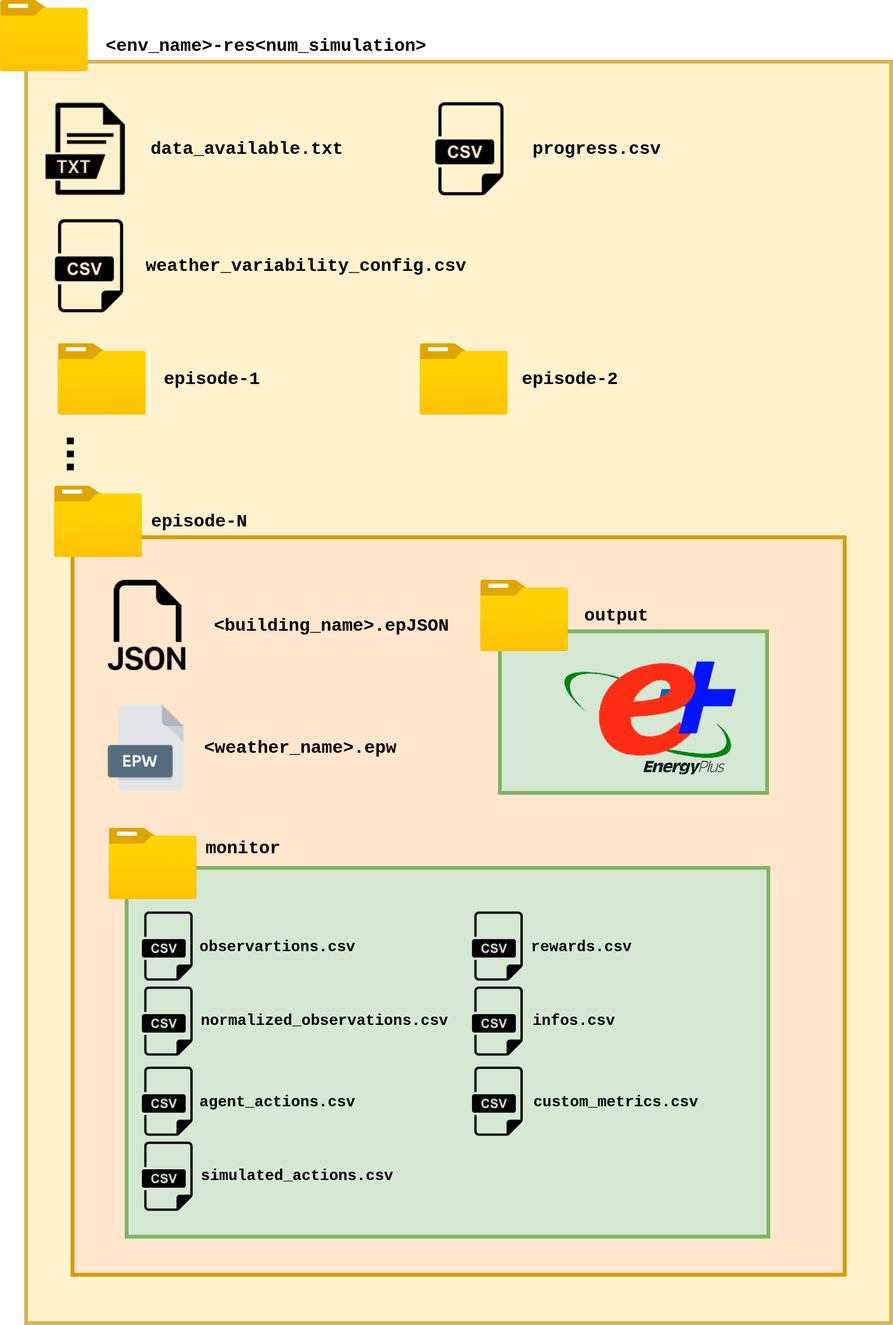
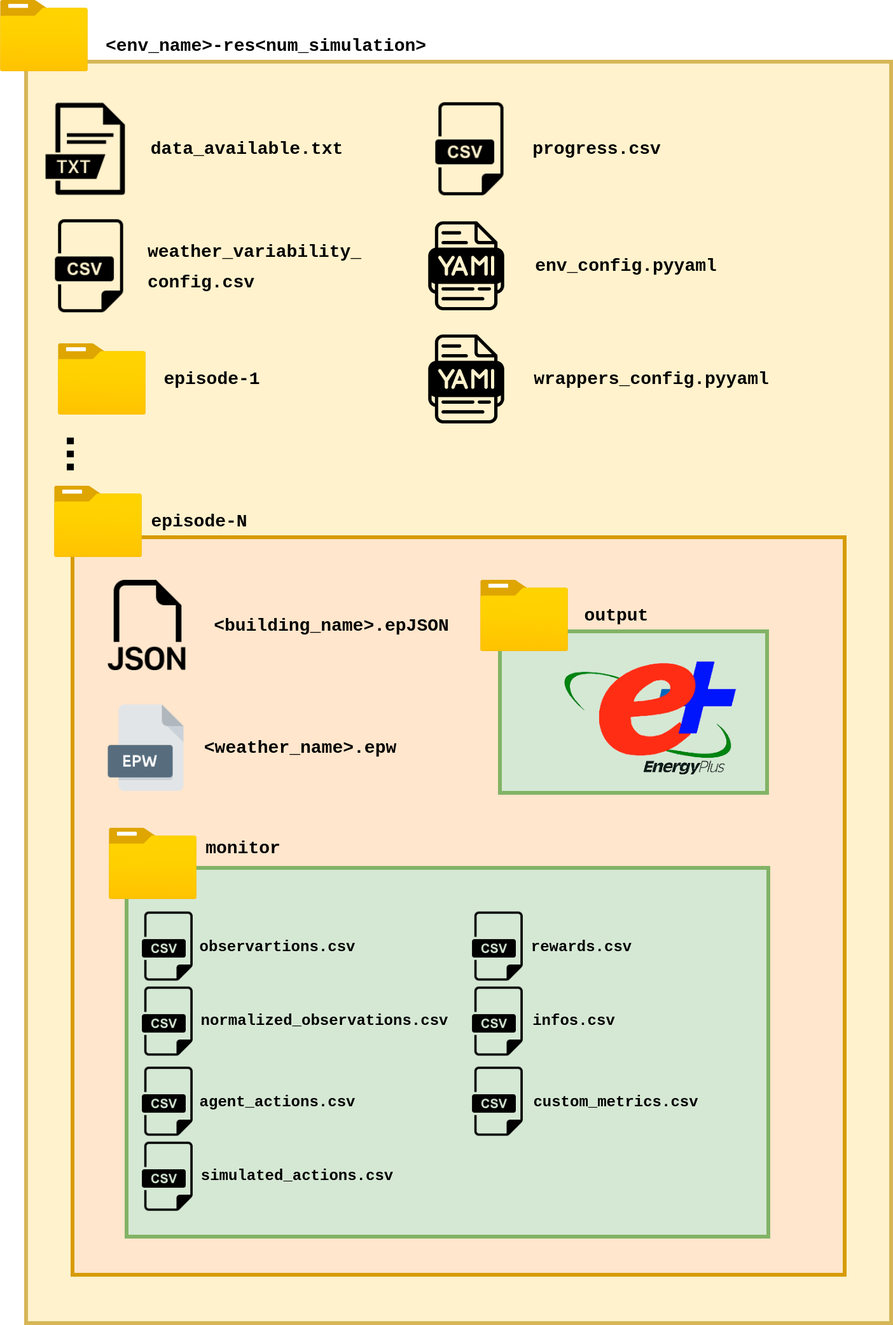
Documentation: Update documentation with information about serialization and its usage

Changed region(s): [[0.1531, 0.156, 0.6738, 0.3431], [0.6125, 0.1871, 0.7963, 0.2183], [0.7044, 0.2807, 0.8575, 0.3119]]

diff --git a/docs/source/pages/environments_registration.rst b/docs/source/pages/environments_registration.rst
@@ -8,46 +8,46 @@ Since multiple environments can be generated from the same building, *Sinergym* 
 
 This section outlines the structure of these YAML configuration files. Moreover, this structure allows for the definition of observation variables (``time_variables``, ``variables`` and ``meters``) and action variables (``actuators``). Instead of manually specifying these in the EnergyPlus Python API format as part of the environment constructor, Sinergym will read this simplified structure and automatically convert it into the appropriate EnergyPlus Python API format.
 
-+----------------------+--------------+---------------------------------------------------------------------------------------------------------------------------------------------------------------------------+
-| **Key**              | **Optional** | **Description**                                                                                                                                                           |
-+======================+==============+===========================================================================================================================================================================+
-| id_base              | No           | Building base name / ID model.                                                                                                                                            |
-+----------------------+--------------+---------------------------------------------------------------------------------------------------------------------------------------------------------------------------+
-| building_file        | No           | Building model file located in ``sinergym/data/buildings/``.                                                                                                              |
-+----------------------+--------------+---------------------------------------------------------------------------------------------------------------------------------------------------------------------------+
-| weather_specification| No           | Set of weather files used to generate different environments. Located in ``sinergym/data/weather/``.                                                                      |
-+----------------------+--------------+---------------------------------------------------------------------------------------------------------------------------------------------------------------------------+
-| building_config      | Yes          | Extra building configuration, modifying the building model automatically (optional).                                                                                      |
-+----------------------+--------------+---------------------------------------------------------------------------------------------------------------------------------------------------------------------------+
-| weather_variability  | Yes          | Indicates if additional versions of all environments adding episodic weather noise will be created.                                                                       |
-+----------------------+--------------+---------------------------------------------------------------------------------------------------------------------------------------------------------------------------+
-| max_ep_store         | Yes          | Maximum number of episodes for which data will be stored. Default: 10.                                                                                                    |
-+----------------------+--------------+---------------------------------------------------------------------------------------------------------------------------------------------------------------------------+
-| time_variables       | No           | ``time_variables`` list definition.                                                                                                                                       |
-+----------------------+--------------+---------------------------------------------------------------------------------------------------------------------------------------------------------------------------+
-| variables            | No           | ``variables`` dict definition.                                                                                                                                            |
-+----------------------+--------------+---------------------------------------------------------------------------------------------------------------------------------------------------------------------------+
-| meters               | No           | ``meters`` dict definition.                                                                                                                                               |
-+----------------------+--------------+---------------------------------------------------------------------------------------------------------------------------------------------------------------------------+
-| actuators            | No           | ``actuators`` dict definition.                                                                                                                                            |
-+----------------------+--------------+---------------------------------------------------------------------------------------------------------------------------------------------------------------------------+
-| context              | No           | ``context`` dict definition.                                                                                                                                              |
-+----------------------+--------------+---------------------------------------------------------------------------------------------------------------------------------------------------------------------------+
-| initial_context      | Yes          | Initial values for specified ``context`` dict. If not specified, it is initialized with the default values provided by the building's definition.                         |
-+----------------------+--------------+---------------------------------------------------------------------------------------------------------------------------------------------------------------------------+
-| action_space         | No           | Gymnasium action space definition.                                                                                                                                        |
-+----------------------+--------------+---------------------------------------------------------------------------------------------------------------------------------------------------------------------------+
-| action_space_discrete| Yes          | Allows the creation of discrete action-space versions of the environments.                                                                                                |
-+----------------------+--------------+---------------------------------------------------------------------------------------------------------------------------------------------------------------------------+
-| only_discrete        | Yes          | Used in composite action space problems where continuous values                                                                                                           |
-|                      |              | must be discretized. If an action space and a discrete space based on it                                                                                                  |
-|                      |              | have been defined (required; see :ref:`DiscretizeEnv`), you can only                                                                                                      |
-|                      |              | register the discrete version using this flag.                                                                                                                            |
-+----------------------+--------------+---------------------------------------------------------------------------------------------------------------------------------------------------------------------------+
-| reward               | No           | Reward class name.                                                                                                                                                        |
-+----------------------+--------------+---------------------------------------------------------------------------------------------------------------------------------------------------------------------------+
-| reward_kwargs        | No           | Reward kwargs for the Reward class constructor.                                                                                                                           |
-+----------------------+--------------+---------------------------------------------------------------------------------------------------------------------------------------------------------------------------+
++----------------------+--------------+-----------------------------------------------------------------------------------------------------------------------------------------------------------------------------------+
+| **Key**              | **Optional** | **Description**                                                                                                                                                                   |
++======================+==============+===================================================================================================================================================================================+
+| id_base              | No           | Building base name / ID model.                                                                                                                                                    |
++----------------------+--------------+-----------------------------------------------------------------------------------------------------------------------------------------------------------------------------------+
+| building_file        | No           | Building model file located in ``sinergym/data/buildings/``. An external path can also be specified.                                                                              |
++----------------------+--------------+-----------------------------------------------------------------------------------------------------------------------------------------------------------------------------------+
+| weather_specification| No           | Set of weather files used to generate different environments. Located in ``sinergym/data/weather/``. An external path can also be specified.                                      |
++----------------------+--------------+-----------------------------------------------------------------------------------------------------------------------------------------------------------------------------------+
+| building_config      | Yes          | Extra building configuration, modifying the building model automatically (optional).                                                                                              |
++----------------------+--------------+-----------------------------------------------------------------------------------------------------------------------------------------------------------------------------------+
+| weather_variability  | Yes          | Indicates if additional versions of all environments adding episodic weather noise will be created.                                                                               |
++----------------------+--------------+-----------------------------------------------------------------------------------------------------------------------------------------------------------------------------------+
+| max_ep_store         | Yes          | Maximum number of episodes for which data will be stored. Default: 10.                                                                                                            |
++----------------------+--------------+-----------------------------------------------------------------------------------------------------------------------------------------------------------------------------------+
+| time_variables       | No           | ``time_variables`` list definition.                                                                                                                                               |
++----------------------+--------------+-----------------------------------------------------------------------------------------------------------------------------------------------------------------------------------+
+| variables            | No           | ``variables`` dict definition.                                                                                                                                                    |
++----------------------+--------------+-----------------------------------------------------------------------------------------------------------------------------------------------------------------------------------+
+| meters               | No           | ``meters`` dict definition.                                                                                                                                                       |
++----------------------+--------------+-----------------------------------------------------------------------------------------------------------------------------------------------------------------------------------+
+| actuators            | No           | ``actuators`` dict definition.                                                                                                                                                    |
++----------------------+--------------+-----------------------------------------------------------------------------------------------------------------------------------------------------------------------------------+
+| context              | No           | ``context`` dict definition.                                                                                                                                                      |
++----------------------+--------------+-----------------------------------------------------------------------------------------------------------------------------------------------------------------------------------+
+| initial_context      | Yes          | Initial values for specified ``context`` dict. If not specified, it is initialized with the default values provided by the building's definition.                                 |
++----------------------+--------------+-----------------------------------------------------------------------------------------------------------------------------------------------------------------------------------+
+| action_space         | No           | Gymnasium action space definition.                                                                                                                                                |
++----------------------+--------------+-----------------------------------------------------------------------------------------------------------------------------------------------------------------------------------+
+| action_space_discrete| Yes          | Allows the creation of discrete action-space versions of the environments.                                                                                                        |
++----------------------+--------------+-----------------------------------------------------------------------------------------------------------------------------------------------------------------------------------+
+| only_discrete        | Yes          | Used in composite action space problems where continuous values                                                                                                                   |
+|                      |              | must be discretized. If an action space and a discrete space based on it                                                                                                          |
+|                      |              | have been defined (required; see :ref:`DiscretizeEnv`), you can only                                                                                                              |
+|                      |              | register the discrete version using this flag.                                                                                                                                    |
++----------------------+--------------+-----------------------------------------------------------------------------------------------------------------------------------------------------------------------------------+
+| reward               | No           | Reward class name. This should be specified in the format ``<module>:<class>``. This is particularly useful when defining a reward function located outside the Sinergym package. |
++----------------------+--------------+-----------------------------------------------------------------------------------------------------------------------------------------------------------------------------------+
+| reward_kwargs        | No           | Reward kwargs for the Reward class constructor.                                                                                                                                   |
++----------------------+--------------+-----------------------------------------------------------------------------------------------------------------------------------------------------------------------------------+
 
 
 .. important:: Sinergym uses continuous action spaces by default, rather than discrete ones.

diff --git a/docs/source/pages/deep-reinforcement-learning.rst b/docs/source/pages/deep-reinforcement-learning.rst
@@ -38,75 +38,131 @@ Usage
 Model training
 ~~~~~~~~~~~~~~
 
-If you are looking to train a DRL agent using *Sinergym*, we provide the script `sinergym/scripts/train/local_confs/train_agent_local_conf.py <https://github.com/ugr-sail/sinergym/blob/main/scripts/train/local_confs/train_agent_local_conf.py>`__. which can be easily adapted to custom experiments.
+If you want to train a DRL agent using *Sinergym*, you can use the script `sinergym/scripts/train/local_confs/train_agent_local_conf.py <https://github.com/ugr-sail/sinergym/blob/main/scripts/train/local_confs/train_agent_local_conf.py>`__, which is easily adaptable for custom experiments.
 
-The following are some key points to consider:
+Here are a few key points to consider:
 
-* Models are built using an algorithm constructor, each with its own **specific parameters**. Defaults are used if none are defined.
+* Models are instantiated using an algorithm constructor, each with its own **specific parameters**. Defaults are used if none are provided.
 
-* If you normalize the environment wrapper, models will **train** using these **normalized** spaces.
+* If you apply a normalization wrapper to the environment, models will **train** using these **normalized** spaces.
 
-* Callbacks are **concatenated** by using a ``CallbackList`` instance from Stable Baselines 3.
+* Callbacks are **combined** using a ``CallbackList`` from Stable Baselines3.
 
-* The model begins training once the ``model.learn()`` method is called. The parameters ``timesteps``, 
-  ``callbacks``, and ``log_interval`` are specified there.
+* Training starts when the ``model.learn()`` method is called. Important parameters such as ``total_timesteps``, ``callback``, and ``log_interval`` are passed here.
 
-* **Sequential / curriculum learning** can be implemented by adding a valid model path to the ``model`` parameter. In this way, the script will load and re-train an existing model.
+* **Sequential / curriculum learning** is supported by providing a path to a previously trained model using the ``model`` parameter. This allows resuming or fine-tuning a model.
 
-The ``train_agent_local_conf.py`` script requires a single parameter (``-conf``), which is the YAML file containing the experiment configuration. A sample YAML structure with comments to understand the structure is detailed in `sinergym/scripts/train/local_confs/conf_examples/train_agent_PPO.yaml <https://github.com/ugr-sail/sinergym/blob/main/scripts/train/local_confs/conf_examplestrain_agent_PPO.yaml>`__.
+The ``train_agent_local_conf.py`` script requires a single argument (``-conf``), which should point to a YAML configuration file. An example configuration file with detailed comments can be found here: `train_agent_PPO.yaml <https://github.com/ugr-sail/sinergym/blob/main/scripts/train/local_confs/conf_examples/train_agent_PPO.yaml>`__.
 
-We distinguish between *mandatory* and *optional* parameters:
+We distinguish between *mandatory* and *optional* configuration parameters:
 
-* **Mandatory**: environment, training episodes, and algorithm (plus any non-default algorithm parameters).
+* **Mandatory**: environment, number of training episodes, and algorithm (including non-default hyperparameters if needed).
 
-* **Optional**: environment parameters (overwrites default if specified), seed, pre-training 
-  model to load, experiment ID, wrappers (in order), training evaluation, and cloud options.
+* **Optional**: environment parameters (override defaults), random seed, pretrained model path, experiment ID, wrappers (in order), evaluation settings, and cloud integration options.
 
 Once executed, the script performs the following steps:
 
-  1. Names the experiment following the format: ``<algorithm>-<environment_name>-episodes<episodes>-seed<seed_value>(<experiment_date>)``.
+1. **Generate the experiment name** using the format ``<experiment_name>_<date>`` if ``experiment_name`` is specified, or ``<algorithm_name>_<date>`` otherwise.
 
-  2. Sets environment parameters if specified.
+2. **Load a pretrained model**, if defined in the configuration:
 
-  3. Applies specified wrappers from the YAML configuration.
+   - From a local file path.
+   - From a Weights & Biases (WandB) artifact.
+   - From a Google Cloud Storage bucket.
 
-  4. Saves all experiment's hyperparameters in WandB if a session is detected.
+3. **Load and configure environment parameters**:
 
-  5. Defines the model algorithm with the specified hyperparameters. If a model has been specified, loads it and continues training.
+   - If an environment YAML configuration is provided, load all parameters from it (:ref:`Environment Configuration Serialization`).
+   - Optionally override or extend specific parameters using ``env_params`` in the configuration.
+   - Set the ``env_name`` to match the experiment name for better traceability.
 
-  6. Calculates training timesteps from the number of episodes.
+4. **Apply wrappers to the environment**, if specified:
 
-  7. Sets up an evaluation callback if specified.
+   - Load wrapper settings from a YAML file (:ref:`Wrapper Serialization and Restoration`).
+   - Optionally override or add wrappers defined directly in the configuration.
+   - Supports custom objects or callables using the ``<module>:<object>`` format.
 
-  8. Trains the model with the environment.
+5. **Create the simulation environment**, applying all parameters and wrappers.
 
-  9. If a remote store is specified, saves all outputs in a Google Cloud Bucket. If WandB is specified, saves all outputs in the WandB run artifact.
+6. **Log experiment metadata to Weights & Biases**, if ``WandBLogger`` is active:
 
-  10. Auto-deletes the remote container in Google Cloud Platform if the auto-delete parameter is specified.
+   - Track Sinergym, Python, and Stable-Baselines3 versions.
+   - Store the full configuration and the processed environment parameters.
+
+7. **Initialize the RL algorithm** using the specified hyperparameters:
+
+   - If no model is loaded, training starts from scratch. Using the algorithm hyperparameters defined in the configuration.
+   - If a pretrained model is available, it resumes training from the saved state.
+
+8. **Set up custom logging**, combining console and WandB logging when ``WandBLogger`` is enabled.
+
+9. **Prepare evaluation**, if enabled:
+
+   - Create a separate evaluation environment (excluding ``WandBLogger``).
+   - Set up a ``LoggerEvalCallback`` to run periodic evaluations during training.
+
+10. **Calculate total training timesteps** based on the number of episodes and episode length.
+
+11. **Train the model** using the environment and configured callbacks.
+
+12. **Save the final model** in the environment’s ``workspace_path`` after training completes.
+
+13. **Handle errors and interruptions gracefully**:
+
+    - Save the model state.
+    - Close the environment properly.
+  
+.. important:: The YAML configuration structure and values are designed to be **intuitive and easy to use**, especially when 
+   paired with this documentation. To get started, simply explore one of the provided example configuration files.  
+   These examples clearly illustrate how to define your environment, wrappers, algorithm, and other training 
+   options—making it straightforward to set up your own experiments. Visit `sinergym/scripts/train/local_confs/conf_examples <https://github.com/ugr-sail/sinergym/blob/main/scripts/train/local_confs/conf_examples>`__.
+
+.. warning:: If you are loading a pretrained model that was trained with **observation normalization**,  
+   it is **critical** to also load the **normalization statistics** (i.e., the running mean and variance)  
+   used during its original training (see :ref:`NormalizeObservation`). Otherwise, the model may perform poorly or behave unpredictably due  
+   to mismatched input distributions. These statistics are typically saved along with the model and should  
+   be restored explicitly before continuing training or evaluation, setting up the NormalizeObservation wrapper.
 
 Model training with sweeps
 ~~~~~~~~~~~~~~~~~~~~~~~~~~
 
 `Weights and Biases sweeps <https://docs.wandb.ai/guides/sweeps/>`__ is a powerful feature that enables hyperparameter exploration in artificial intelligence algorithms.
 
-To help users take advantage of this functionality, we have created a script that allows agents to run in parallel or sequentially. These agents pick predefined configurations from previously created sweeps to carry out the optimization process.
+To help users take advantage of this functionality, we have created a script that allows agents to run in parallel or sequentially. These agents pick predefined configurations from previously created sweeps to carry out the optimization process. The process is similar to the one described in the previous section.
 
 The script for launching agents, the training script they execute (either in parallel or sequentially), and example sweep configurations can all be found in the `sinergym/scripts/train/sweep_confs <https://github.com/ugr-sail/sinergym/blob/main/scripts/train/sweep_confs>`__ directory.
 
 We recommend reviewing the contents of this directory alongside the Weights and Biases documentation if you are interested in using this feature.
 
 Model loading
-~~~~~~~~~~~~~~~~~~~~~~
+~~~~~~~~~~~~~
 
-To load and evaluate/execute an previously trained model, use the script `sinergym/scripts/eval/load_agent.py <https://github.com/ugr-sail/sinergym/blob/main/scripts/eval/load_agent.py>`__. 
+To load and evaluate a previously trained model, you can use the script `scripts/eval/load_agent.py <https://github.com/ugr-sail/sinergym/blob/main/scripts/eval/load_agent.py>`__. This script is flexible and supports multiple model sources and environment configurations.
 
-The ``load_agent.py`` script requires a single parameter, ``-conf``, indicating the YAML file with the evaluation configuration. See the YAML structure in 
-`sinergym/scripts/eval/load_agent_example.yaml <https://github.com/ugr-sail/sinergym/blob/main/scripts/eval/load_agent_example.yaml>`__ for a reference example of this configuration file.
+The script requires a single parameter, ``-conf``, pointing to a YAML file with the evaluation setup. A reference configuration can be found in `scripts/eval/load_agent_example.yaml <https://github.com/ugr-sail/sinergym/blob/main/scripts/eval/load_agent_example.yaml>`__.
 
-Again, we distinguish between *mandatory* and *optional* parameters:
+We distinguish between *mandatory* and *optional* parameters:
 
-* **Mandatory**: environment, evaluation episodes, algorithm (name only), and model to load. The model field can be a *local path*, a *bucket url* in the form ``gs://``, or a WandB artifact path for stored models.
+* **Mandatory**: environment name, number of episodes, algorithm (only name is required), and model path. Supported model sources include:
+  
+  - Local file path
+  - Google Cloud Storage bucket (``gs://...`` format)
+  - Weights & Biases (WandB) artifact
 
-* **Optional**: environment parameters (which overwrite defaults if specified), experiment identifier, wrappers (in order), and cloud options.
+* **Optional**: environment parameters (overrides defaults if provided), experiment name, wrapper definitions, and cloud storage options.
 
-The script loads the model and executes it the specified environment. Relevant data is collected and sent to remote storage if specified, otherwise it is stored locally.
+During execution, the script performs the following steps:
+
+1. Generates a unique evaluation name (e.g., ``PPO_2025-05-29_10:12_evaluation``).
+2. Downloads and loads the specified model from the defined source.
+3. Loads environment and wrapper configurations (from YAML environment and wrappers serialization or directly from the config).
+4. Initializes the evaluation environment with all parameters and wrappers.
+5. Runs the agent for the defined number of episodes.
+6. Stores results locally or in the cloud, depending on configuration.
+7. Gracefully handles errors and interruptions, ensuring environment closure.
+
+.. warning::
+
+   If your model was trained with **observation normalization**, make sure to restore the corresponding  
+   **normalization statistics**. These are usually saved with the model and must be loaded to ensure  
+   the agent receives inputs with the expected distribution. See :ref:`NormalizeObservation` for more details on how to handle this.

diff --git a/docs/source/pages/output.rst b/docs/source/pages/output.rst
@@ -52,6 +52,10 @@ The contents of this root output directory include the results of the simulation
 
 - ``mean.txt`` and ``var.txt``. These files contain the mean and variation values for calibration of normalization in observation space if wrapper ``NormalizeObservation`` is used (see :ref:`NormalizeObservation`).
 
+- ``env_config.pyyaml``. This file contains the environment configuration in YAML format. It is automatically generated when the environment is created and includes all the parameters used to instantiate the environment, such as the building model, weather file, simulation settings, and any user-defined configurations. For more information, see the :ref:`Environment Configuration Serialization` section.
+
+- ``wrappers_config.pyyaml``. This file contains the configuration of the wrappers applied to the environment, formatted in YAML. It is generated by calling get_wrappers_info(env) after the wrappers have been applied. The file includes all parameters used to instantiate the wrappers, such as normalization settings, action scaling, and any user-defined configurations. For more information, see the :ref:`Wrapper Serialization and Restoration` section.
+
 - ``evaluation/``. This directory contains the best model obtained during the training process. It is only created when the environment has been used with Stable Baselines 3 and wrapped with ``LoggerEvalCallback`` (see :ref:`LoggerEvalCallback`). The structure of this directory is as follows:
 
     - ``best_model.zip``. This file contains the best model obtained during the training process. It is saved in a compressed format.

diff --git a/docs/source/pages/environments.rst b/docs/source/pages/environments.rst
@@ -58,6 +58,8 @@ The ``building_file`` parameter refers to the *epJSON* file, an `adaptation <htt
 
 Before starting the simulation, *Sinergym* performs a preparatory step to adapt the building model. For more details, refer to the *Modeling* component in the *Sinergym* backend diagram.
 
+This parameter can be set to either a single building file name or a full path, if an external building file is being used.
+
 Weather files
 =============
 
@@ -66,6 +68,8 @@ The ``weather_file`` parameter specifies the *EPW* (*EnergyPlus* Weather) file, 
 This parameter can be provided as a single weather file name (``str``) or as a list of multiple weather files (``List[str]``). When multiple files are specified, *Sinergym* will randomly select one *EPW* file for each episode and automatically adapt the building model accordingly. This feature adds complexity to the environment, if desired.
 
 The weather file used in each episode is saved in the *Sinergym* episode output folder. If **variability** (see section :ref:`Weather Variability`) is enabled, the stored *EPW* file will include the corresponding noise adjustments.
+
+Alternatively, the weather_file parameter can also be set to a full path, which is useful when using custom or external weather files not located in the default weather directory. This allows greater flexibility in testing specific climate scenarios or regional data.
 
 Weather variability
 ~~~~~~~~~~~~~~~~~~~

diff --git a/docs/source/pages/tests.rst b/docs/source/pages/tests.rst
@@ -69,6 +69,8 @@ Tests are available in the ``sinergym/tests`` directory. They are organized by d
 
 - ``test_env.py``. Tests for ``sinergym/sinergym/envs/``. These tests check *Sinergym*'s' Gymnasium environments.
 
+- ``test_serialization.py``. Tests for ``sinergym/sinergym/utils/serialization.py``. These tests check the serialization and restoration of environments and wrappers.
+
 - ``test_controller.py``. Tests the controllers defined in ``sinergym/sinergym/utils/controllers.py``.
 
 - ``test_modeling.py``. Tests for ``sinergym/sinergym/config/modeling.py``. These tests check the simulator configuration, including epJSON and EPW Python modules.

diff --git a/docs/source/pages/serialization.rst b/docs/source/pages/serialization.rst
@@ -72,6 +72,8 @@ To reload a complete environment, including its wrappers:
     # Alternatively:
     env = apply_wrappers_info(env, wrappers_info)
 
+This feature is used in Sinergym's scripts in :ref:`Usage`.
+
 *************
 Key Features
 *************
